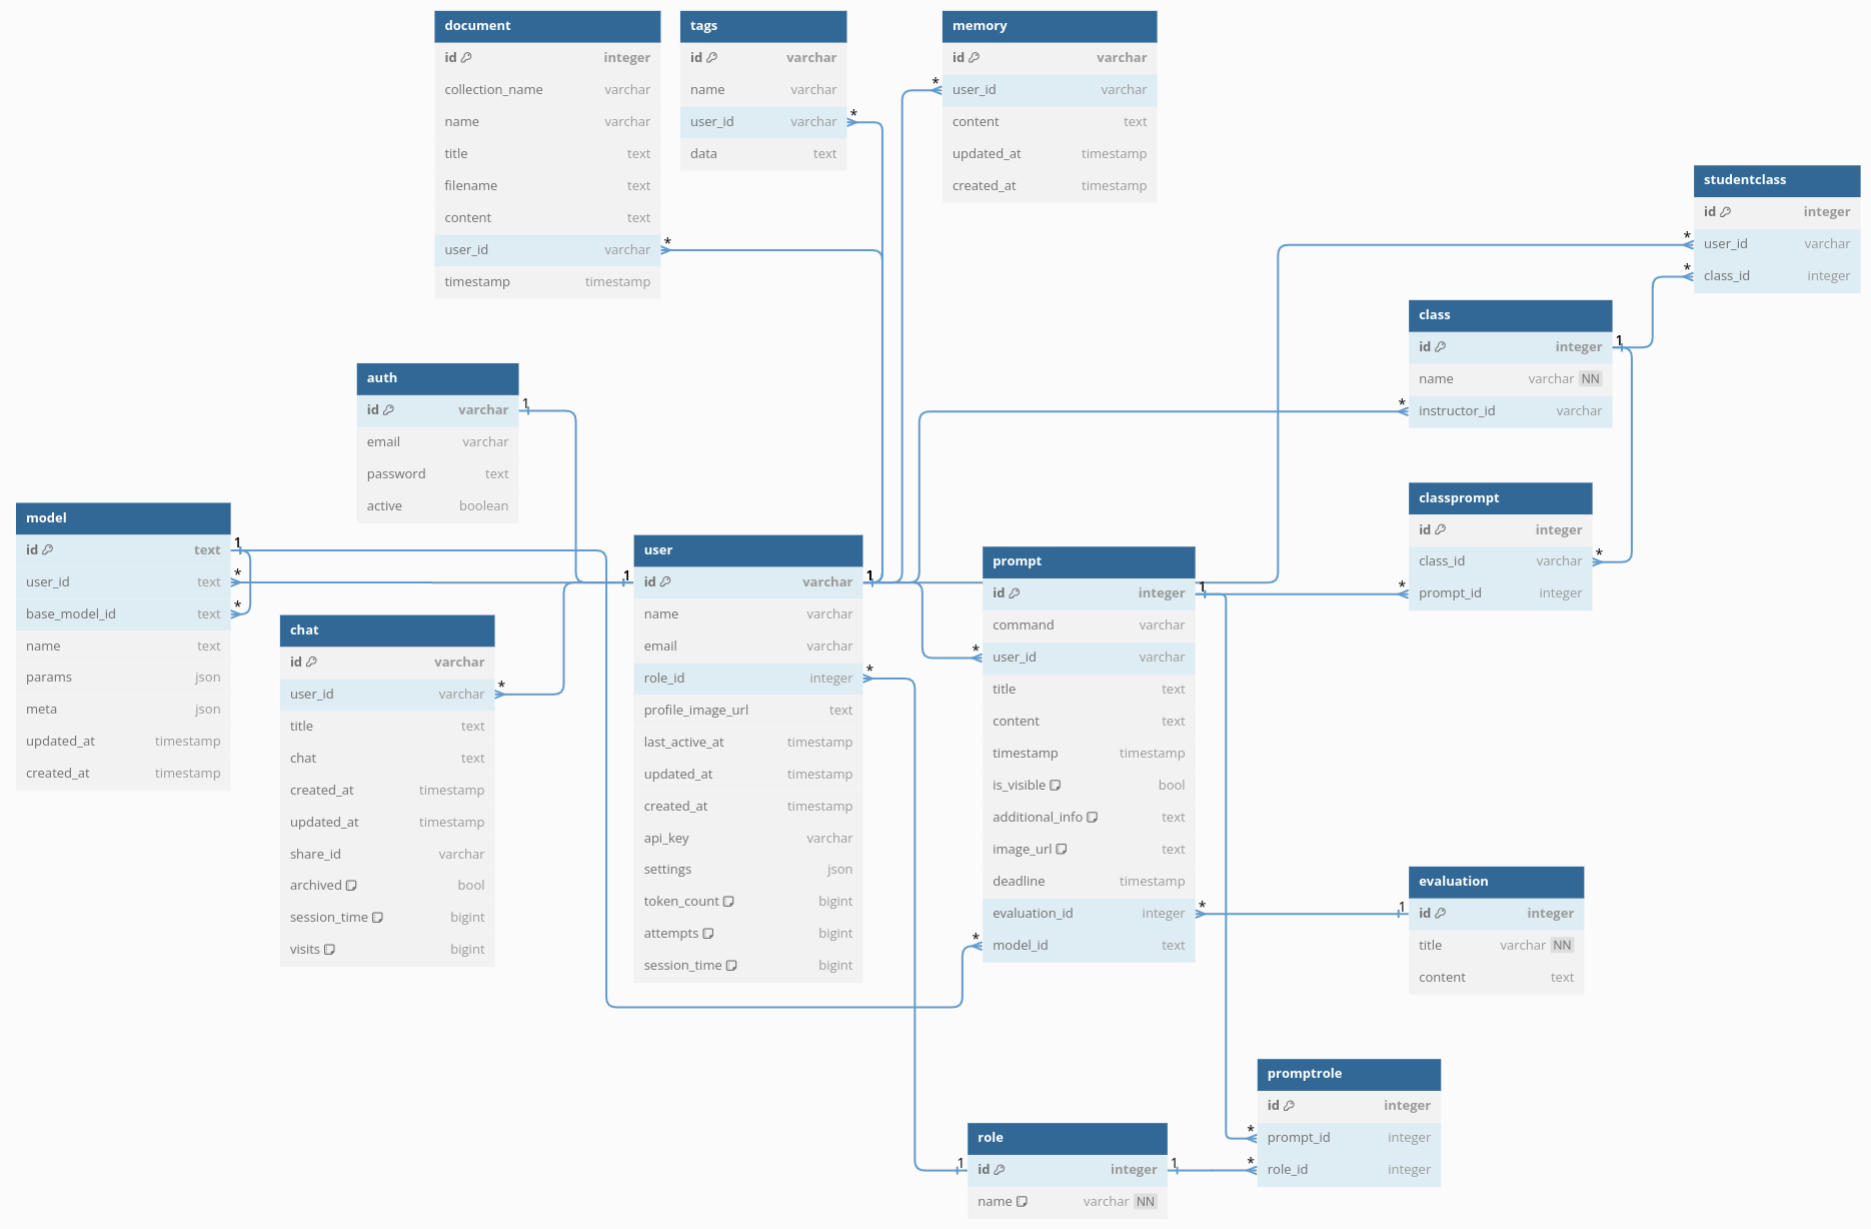
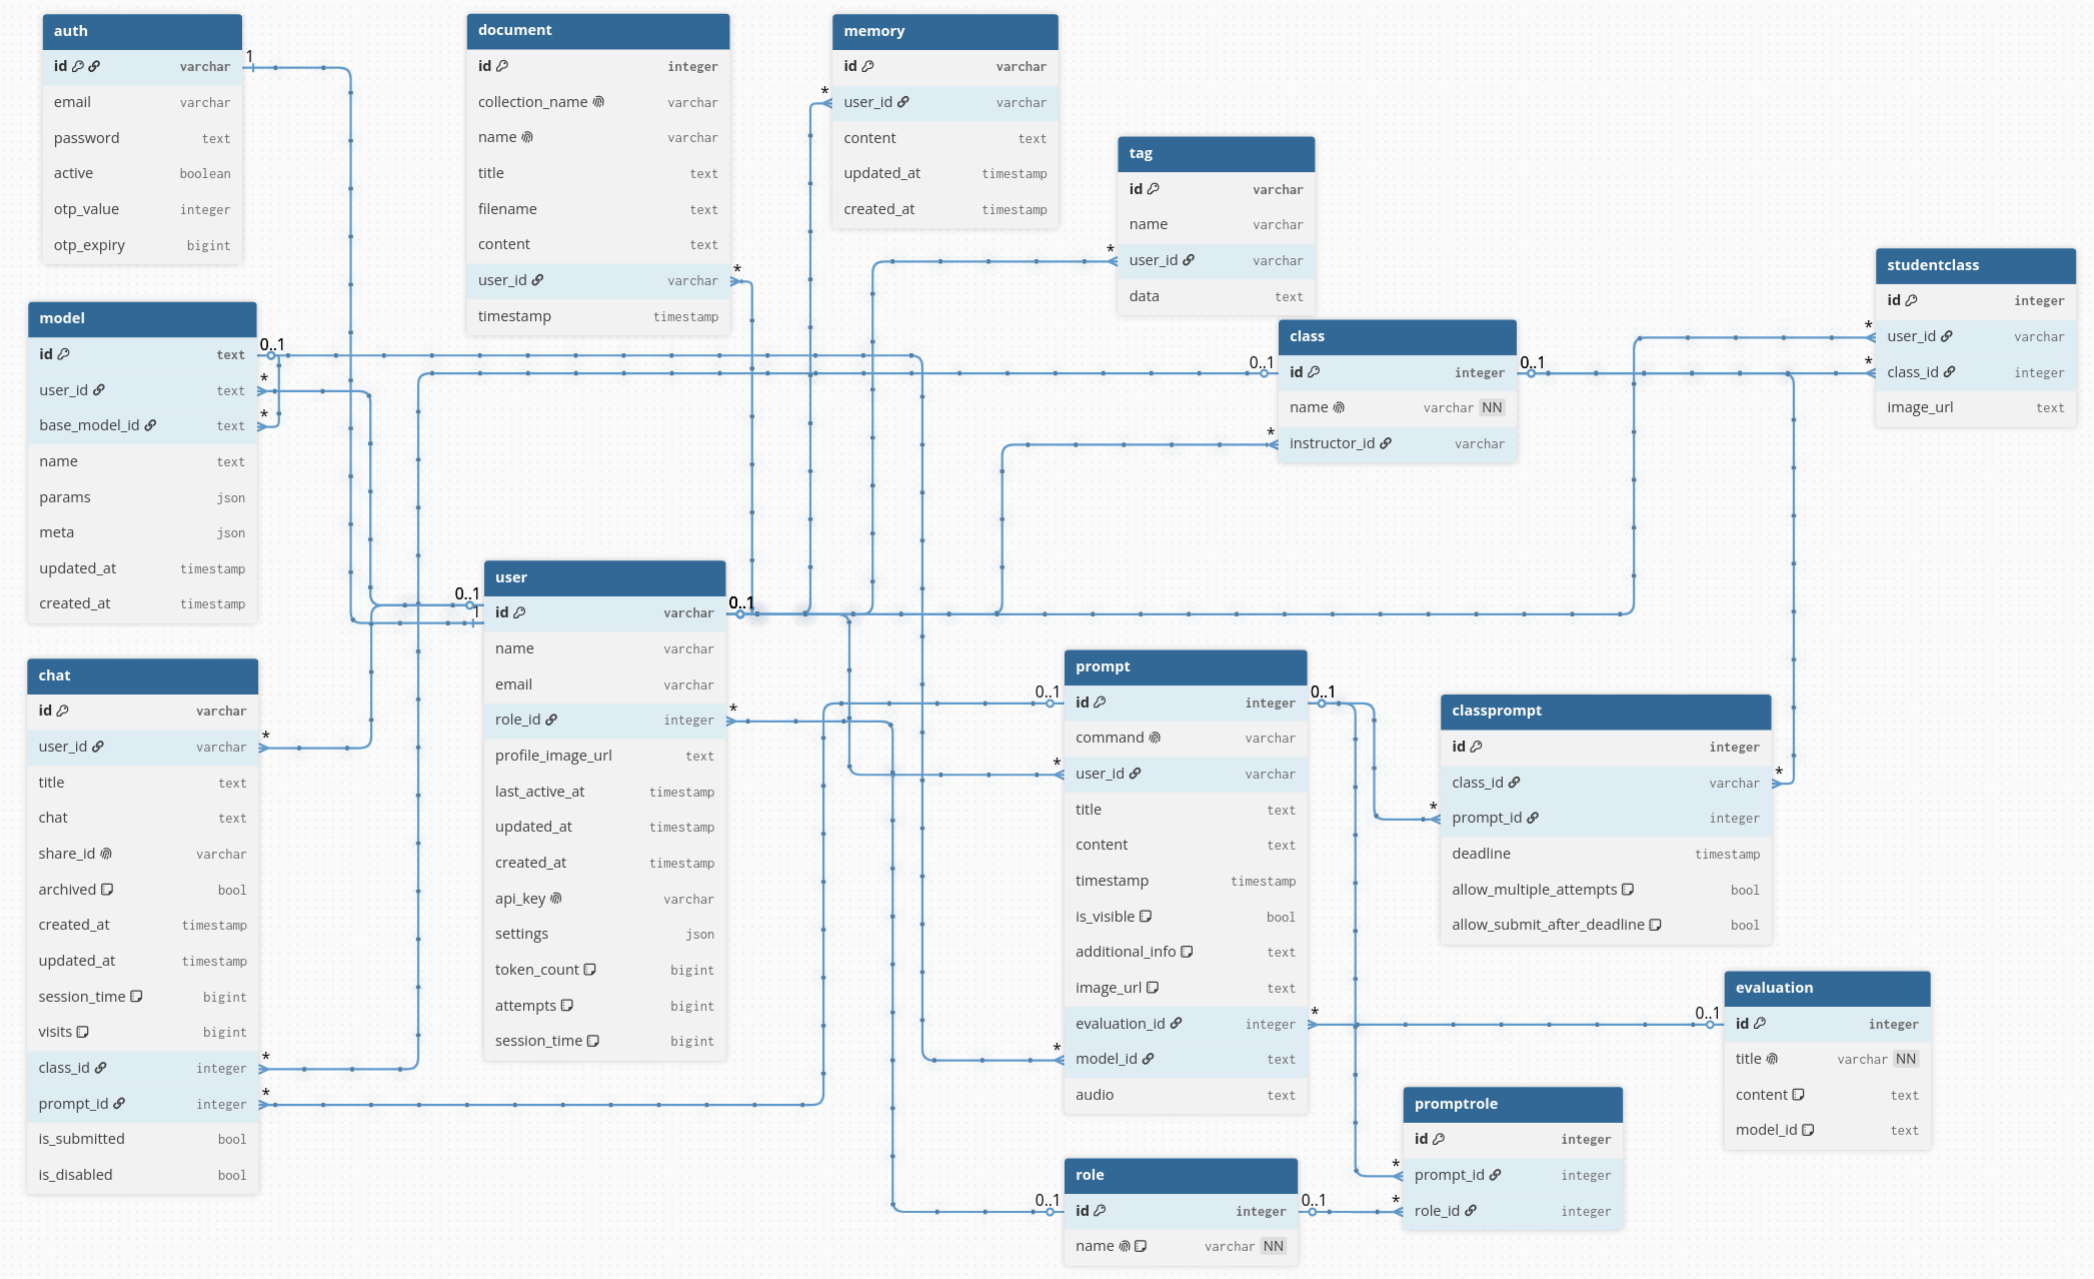
Update documentation

diff --git a/README.md b/README.md
@@ -67,21 +67,28 @@ Don't forget to explore our sibling project, [Open WebUI Community](https://open
 > If you wish to utilize Open WebUI with Ollama included or CUDA acceleration, we recommend utilizing our official images tagged with either `:cuda` or `:ollama`. To enable CUDA, you must install the [Nvidia CUDA container toolkit](https://docs.nvidia.com/dgx/nvidia-container-runtime-upgrade/) on your Linux/WSL system.
 
 ### Installation of Forked Version for Social Work
-- Copy the `.env.example` file in the root directory to create a `.env` file. Fill in the API key. Note: The API key should not be surrounded by quotes, docker does not 
-parse and remove them.
-- Build the docker image:
-  ```bash
-  docker build -t open-webui-fork .
-  ```
-- Create a volume for persistent data storage:
-  ```bash
-  docker volume create open-webui-fork
-  ```
-- Run the container:
-  ```bash
-  docker run --env-file ./.env -d -p 3000:8080 -v open-webui-fork:/app/backend/data --name open-webui-fork open-webui-fork
-  ```
-- Head to localhost:3000 to access the app.
+- Copy the `.env.example` file in the root directory to create a `.env` file.
+- Fill in the `OPENAI_API_KEY`, `CLAUDE_API_KEY`, `ELEVENLABS_API_KEY`, `GMAIL_ADDRESS`, `GMAIL_APP_PASSWORD` fields. The gmail credentials are for sending user invites.
+    - Note: The fields should not be surrounded by quotes as docker does not parse and remove them.
+- To build and run the backend:
+    - Create a python 3.10 virtual environment and source it.
+    - Update pip (important).
+    - Install the required packages in `backend/requirements.txt`.
+    - Start the backend with `./backend/start.sh`.
+- To build and run the frontend:
+    - Install the npm packages (currently using node version 22.22.3 and npm version 10.9.8).
+    - Start the frontend with `npm run dev` (for development) or `npm run build` (for deployment).
+- For deployment on DigitalOcean's App Platform using docker:
+    - Create a new App Platform.
+    - Select the correct branch from github repo (main).
+    - Remove redundant app created, only leave behind the one that says "Dockerfile".
+    - Choose appropriate resource limits, it needs at least 1GB RAM since the idle app uses ~500MB of RAM.
+    - Add a database (dev database is fine for now).
+    - Set the environment variables for the web app component:
+        - Leave `DATABASE_URL` as `${db.DATABASE_URL}`.
+        - Set `OPENAI_API_KEY`, `CLAUDE_API_KEY`, `ELEVENLABS_API_KEY` to their corresponding secret API keys. If the key is not set, then the app will not get models from the API. Set this to encrypted for security. Remember to store the keys somewhere safe.
+        - Set `GMAIL_ADDRESS` and `GMAIL_APP_PASSWORD` to the gmail address and app password (not regular password) used to send invitations and passwords.
+    - Leave the rest of the settings as default and create the app under the project you want.
 
 > [!NOTE]  
 > The first account to be created will be the admin account. Subsequent accounts will be user accounts. The admin account should fill in the available prompts.

diff --git a/docs/schema.md b/docs/schema.md
@@ -25,17 +25,20 @@ Table chat {
   title text
   chat text
 
-  created_at timestamp
-  updated_at timestamp
-
   share_id varchar [null, unique]
   archived bool [default: false]
+
+  created_at timestamp
+  updated_at timestamp
 
   session_time bigint [default: 0]
   visits bigint [default: 0]
 
   class_id integer [ref: > class.id]
   prompt_id integer [ref: > prompt.id]
+
+  is_submitted bool
+  is_disabled bool
 }
 
 Table document {
@@ -81,6 +84,7 @@ Table prompt {
   image_url text [default: ""]
   evaluation_id integer [null, ref: > evaluation.id]
   model_id text [null, ref: > model.id]
+  audio text
 }
 
 Table promptrole {
@@ -94,7 +98,7 @@ Table role {
   name varchar [not null, default: "pending", unique]
 }
 
-Table tags {
+Table tag {
   id varchar [primary key]
   name varchar
   user_id varchar [ref: > user.id]
@@ -131,6 +135,7 @@ Table studentclass {
   id integer [primary key]
   user_id varchar [ref: > user.id]
   class_id integer [ref: > class.id]
+  image_url text
 }
 
 Table class {
